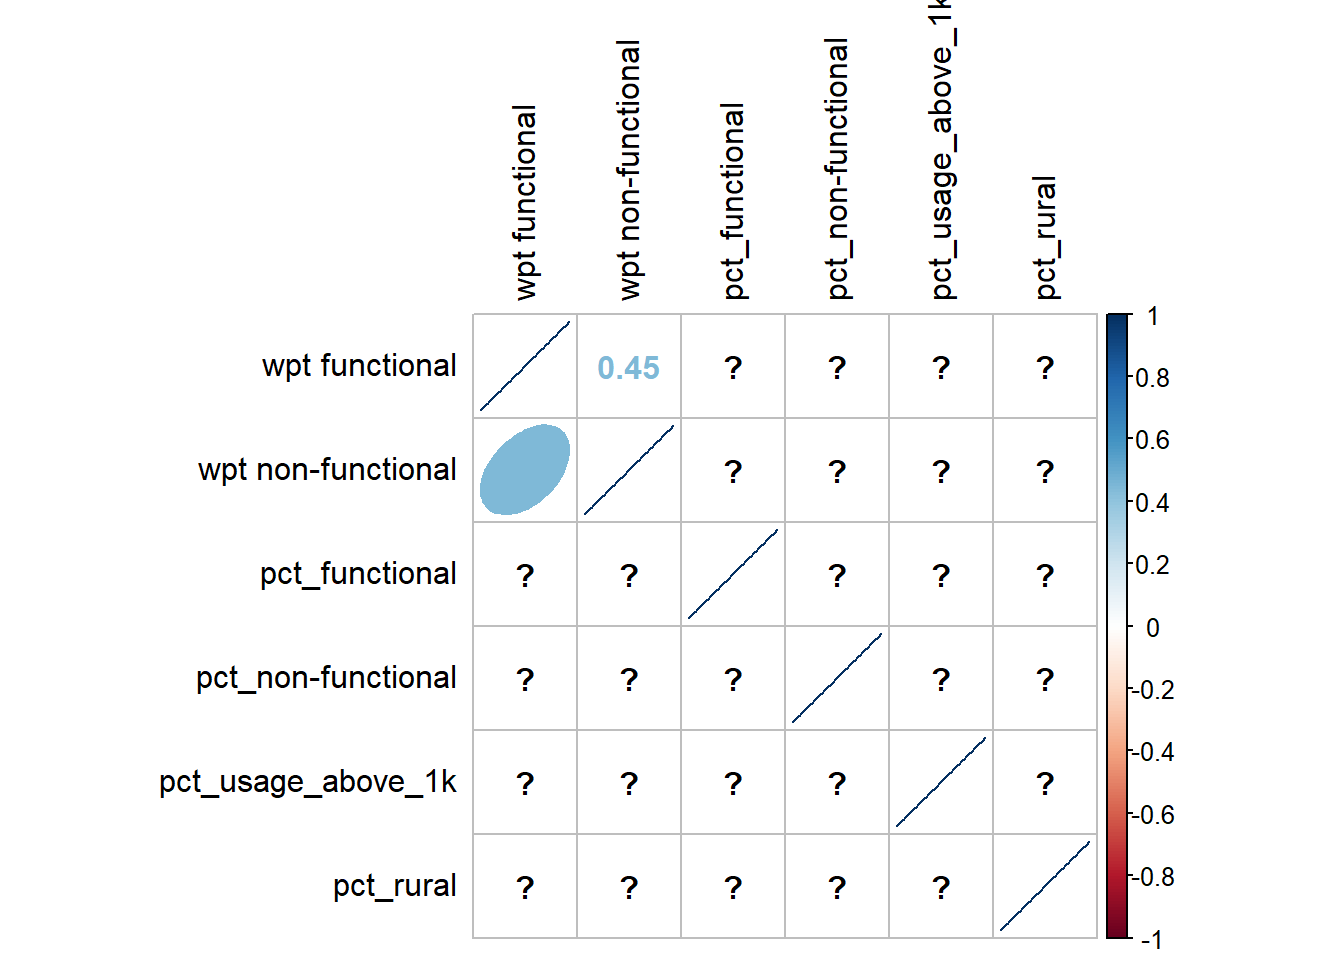
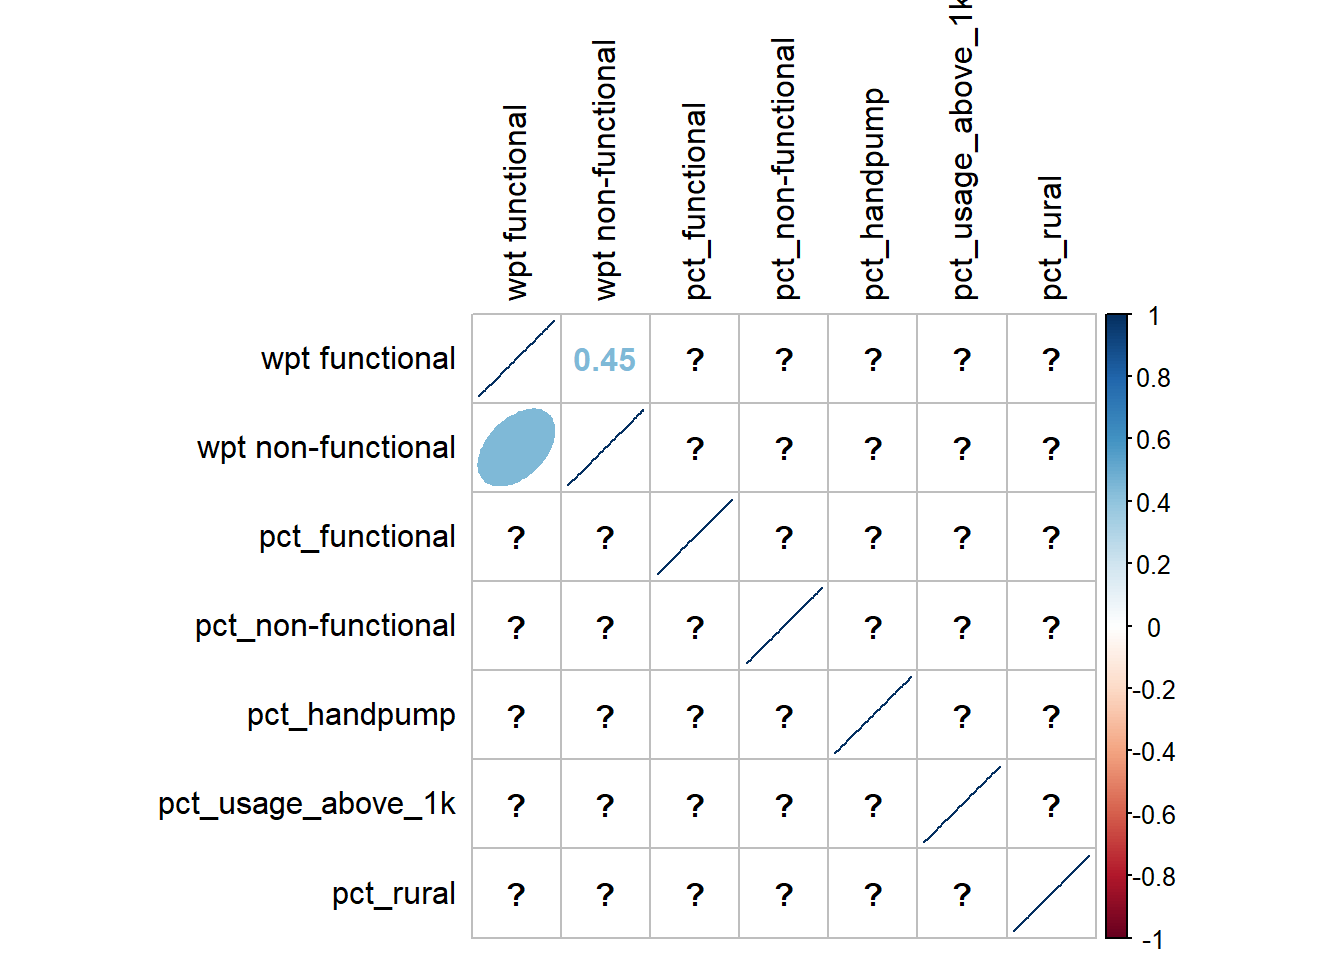
commit of take-home_Ex2

diff --git a/_site/Take-home_Ex2/Take-home_Ex2.html b/_site/Take-home_Ex2/Take-home_Ex2.html
@@ -661,10 +661,10 @@ code span.wa { color: #60a0b0; font-weight: bold; font-style: italic; } /* Warni
 <h2 class="anchored" data-anchor-id="correlation-analysis">Correlation Analysis</h2>
 <p>Before we perform cluster analysis, it is important for us to ensure that the cluster variables are not highly correlated.</p>
 <div class="cell">
-<div class="sourceCode cell-code" id="cb31"><pre class="sourceCode r code-with-copy"><code class="sourceCode r"><span id="cb31-1"><a href="#cb31-1" aria-hidden="true" tabindex="-1"></a>corr_data <span class="ot">&lt;-</span> nigeria_wp[,<span class="fu">c</span>(<span class="dv">6</span><span class="sc">:</span><span class="dv">7</span>, <span class="dv">14</span><span class="sc">:</span><span class="dv">15</span>, <span class="dv">19</span><span class="sc">:</span><span class="dv">20</span>)] <span class="sc">%&gt;%</span> <span class="fu">st_set_geometry</span>(<span class="cn">NULL</span>)</span></code><button title="Copy to Clipboard" class="code-copy-button"><i class="bi"></i></button></pre></div>
+<div class="sourceCode cell-code" id="cb31"><pre class="sourceCode r code-with-copy"><code class="sourceCode r"><span id="cb31-1"><a href="#cb31-1" aria-hidden="true" tabindex="-1"></a>corr_data <span class="ot">&lt;-</span> nigeria_wp[,<span class="fu">c</span>(<span class="dv">6</span><span class="sc">:</span><span class="dv">7</span>, <span class="dv">14</span><span class="sc">:</span><span class="dv">16</span>, <span class="dv">19</span><span class="sc">:</span><span class="dv">20</span>)] <span class="sc">%&gt;%</span> <span class="fu">st_set_geometry</span>(<span class="cn">NULL</span>)</span></code><button title="Copy to Clipboard" class="code-copy-button"><i class="bi"></i></button></pre></div>
 </div>
 <div class="cell">
-<div class="sourceCode cell-code" id="cb32"><pre class="sourceCode r code-with-copy"><code class="sourceCode r"><span id="cb32-1"><a href="#cb32-1" aria-hidden="true" tabindex="-1"></a>cluster_vars.cor <span class="ot">=</span> <span class="fu">cor</span>(corr_data)</span>
+<div class="sourceCode cell-code" id="cb32"><pre class="sourceCode r code-with-copy"><code class="sourceCode r"><span id="cb32-1"><a href="#cb32-1" aria-hidden="true" tabindex="-1"></a>cluster_vars.cor <span class="ot">=</span> <span class="fu">cor</span>(corr_data[,<span class="dv">1</span><span class="sc">:</span><span class="dv">7</span>])</span>
 <span id="cb32-2"><a href="#cb32-2" aria-hidden="true" tabindex="-1"></a><span class="fu">corrplot.mixed</span>(cluster_vars.cor,</span>
 <span id="cb32-3"><a href="#cb32-3" aria-hidden="true" tabindex="-1"></a>         <span class="at">lower =</span> <span class="st">"ellipse"</span>, </span>
 <span id="cb32-4"><a href="#cb32-4" aria-hidden="true" tabindex="-1"></a>               <span class="at">upper =</span> <span class="st">"number"</span>,</span>
@@ -691,19 +691,17 @@ code span.wa { color: #60a0b0; font-weight: bold; font-style: italic; } /* Warni
 <div class="sourceCode cell-code" id="cb34"><pre class="sourceCode r code-with-copy"><code class="sourceCode r"><span id="cb34-1"><a href="#cb34-1" aria-hidden="true" tabindex="-1"></a>NaN_list <span class="ot">&lt;-</span> <span class="fu">is.nan</span>(nigeria_wp<span class="sc">$</span>pct_functional)</span>
 <span id="cb34-2"><a href="#cb34-2" aria-hidden="true" tabindex="-1"></a>nigeria_wp<span class="sc">$</span>pct_functional[NaN_list] <span class="ot">&lt;-</span> <span class="dv">0</span></span>
 <span id="cb34-3"><a href="#cb34-3" aria-hidden="true" tabindex="-1"></a></span>
-<span id="cb34-4"><a href="#cb34-4" aria-hidden="true" tabindex="-1"></a></span>
-<span id="cb34-5"><a href="#cb34-5" aria-hidden="true" tabindex="-1"></a></span>
-<span id="cb34-6"><a href="#cb34-6" aria-hidden="true" tabindex="-1"></a>NaN_list <span class="ot">&lt;-</span> <span class="fu">is.nan</span>(nigeria_wp<span class="sc">$</span>pct_handpump)</span>
-<span id="cb34-7"><a href="#cb34-7" aria-hidden="true" tabindex="-1"></a>nigeria_wp<span class="sc">$</span>pct_handpump[NaN_list] <span class="ot">&lt;-</span> <span class="dv">0</span></span>
-<span id="cb34-8"><a href="#cb34-8" aria-hidden="true" tabindex="-1"></a></span>
-<span id="cb34-9"><a href="#cb34-9" aria-hidden="true" tabindex="-1"></a>NaN_list <span class="ot">&lt;-</span> <span class="fu">is.nan</span>(nigeria_wp<span class="sc">$</span>pct_handpump)</span>
-<span id="cb34-10"><a href="#cb34-10" aria-hidden="true" tabindex="-1"></a>nigeria_wp<span class="sc">$</span>pct_handpump[NaN_list] <span class="ot">&lt;-</span> <span class="dv">0</span></span>
-<span id="cb34-11"><a href="#cb34-11" aria-hidden="true" tabindex="-1"></a></span>
-<span id="cb34-12"><a href="#cb34-12" aria-hidden="true" tabindex="-1"></a>NaN_list <span class="ot">&lt;-</span> <span class="fu">is.nan</span>(nigeria_wp<span class="sc">$</span>pct_usage_below_1k)</span>
-<span id="cb34-13"><a href="#cb34-13" aria-hidden="true" tabindex="-1"></a>nigeria_wp<span class="sc">$</span>pct_usage_below_1k[NaN_list] <span class="ot">&lt;-</span> <span class="dv">0</span></span>
-<span id="cb34-14"><a href="#cb34-14" aria-hidden="true" tabindex="-1"></a></span>
-<span id="cb34-15"><a href="#cb34-15" aria-hidden="true" tabindex="-1"></a>NaN_list <span class="ot">&lt;-</span> <span class="fu">is.nan</span>(nigeria_wp<span class="sc">$</span>pct_rural)</span>
-<span id="cb34-16"><a href="#cb34-16" aria-hidden="true" tabindex="-1"></a>nigeria_wp<span class="sc">$</span>pct_rural[NaN_list] <span class="ot">&lt;-</span> <span class="dv">0</span></span></code><button title="Copy to Clipboard" class="code-copy-button"><i class="bi"></i></button></pre></div>
+<span id="cb34-4"><a href="#cb34-4" aria-hidden="true" tabindex="-1"></a>NaN_list <span class="ot">&lt;-</span> <span class="fu">is.nan</span>(nigeria_wp<span class="sc">$</span><span class="st">`</span><span class="at">pct_non-functional</span><span class="st">`</span>)</span>
+<span id="cb34-5"><a href="#cb34-5" aria-hidden="true" tabindex="-1"></a>nigeria_wp<span class="sc">$</span><span class="st">`</span><span class="at">pct_non-functional</span><span class="st">`</span>[NaN_list] <span class="ot">&lt;-</span> <span class="dv">0</span></span>
+<span id="cb34-6"><a href="#cb34-6" aria-hidden="true" tabindex="-1"></a></span>
+<span id="cb34-7"><a href="#cb34-7" aria-hidden="true" tabindex="-1"></a>NaN_list <span class="ot">&lt;-</span> <span class="fu">is.nan</span>(nigeria_wp<span class="sc">$</span>pct_handpump)</span>
+<span id="cb34-8"><a href="#cb34-8" aria-hidden="true" tabindex="-1"></a>nigeria_wp<span class="sc">$</span>pct_handpump[NaN_list] <span class="ot">&lt;-</span> <span class="dv">0</span></span>
+<span id="cb34-9"><a href="#cb34-9" aria-hidden="true" tabindex="-1"></a></span>
+<span id="cb34-10"><a href="#cb34-10" aria-hidden="true" tabindex="-1"></a>NaN_list <span class="ot">&lt;-</span> <span class="fu">is.nan</span>(nigeria_wp<span class="sc">$</span>pct_usage_above_1k)</span>
+<span id="cb34-11"><a href="#cb34-11" aria-hidden="true" tabindex="-1"></a>nigeria_wp<span class="sc">$</span>pct_usage_above_1k[NaN_list] <span class="ot">&lt;-</span> <span class="dv">0</span></span>
+<span id="cb34-12"><a href="#cb34-12" aria-hidden="true" tabindex="-1"></a></span>
+<span id="cb34-13"><a href="#cb34-13" aria-hidden="true" tabindex="-1"></a>NaN_list <span class="ot">&lt;-</span> <span class="fu">is.nan</span>(nigeria_wp<span class="sc">$</span>pct_rural)</span>
+<span id="cb34-14"><a href="#cb34-14" aria-hidden="true" tabindex="-1"></a>nigeria_wp<span class="sc">$</span>pct_rural[NaN_list] <span class="ot">&lt;-</span> <span class="dv">0</span></span></code><button title="Copy to Clipboard" class="code-copy-button"><i class="bi"></i></button></pre></div>
 </div>
 <p>We run the code as follow:</p>
 <div class="cell">
@@ -718,11 +716,11 @@ code span.wa { color: #60a0b0; font-weight: bold; font-style: italic; } /* Warni
 <pre><code>    ADM2_EN wpt functional wpt non-functional pct_functional pct_non-functional
 1 Aba North              7                  9      0.4117647          0.5294118
 2 Aba South             29                 35      0.4084507          0.4929577
-3    Abadam              0                  0            NaN                NaN
+3    Abadam              0                  0      0.0000000          0.0000000
   pct_handpump pct_usage_below_1k  pct_rural
 1   0.11764706          0.1764706 0.00000000
 2   0.09859155          0.1267606 0.05633803
-3          NaN                NaN        NaN</code></pre>
+3   0.00000000                NaN 0.00000000</code></pre>
 </div>
 </div>
 <p>Next, we need to change the row names using row.name() function from R base:</p>
@@ -733,11 +731,11 @@ code span.wa { color: #60a0b0; font-weight: bold; font-style: italic; } /* Warni
 <pre><code>            ADM2_EN wpt functional wpt non-functional pct_functional
 Aba North Aba North              7                  9      0.4117647
 Aba South Aba South             29                 35      0.4084507
-Abadam       Abadam              0                  0            NaN
+Abadam       Abadam              0                  0      0.0000000
           pct_non-functional pct_handpump pct_usage_below_1k  pct_rural
 Aba North          0.5294118   0.11764706          0.1764706 0.00000000
 Aba South          0.4929577   0.09859155          0.1267606 0.05633803
-Abadam                   NaN          NaN                NaN        NaN</code></pre>
+Abadam             0.0000000   0.00000000                NaN 0.00000000</code></pre>
 </div>
 </div>
 <p>Now, we do not need the column ADM2_EN &amp; pct_usage_below_1k anymore, so we exclude it:</p>
@@ -748,11 +746,11 @@ Abadam                   NaN          NaN                NaN        NaN</code></
 <pre><code>          wpt functional wpt non-functional pct_functional pct_non-functional
 Aba North              7                  9      0.4117647          0.5294118
 Aba South             29                 35      0.4084507          0.4929577
-Abadam                 0                  0            NaN                NaN
+Abadam                 0                  0      0.0000000          0.0000000
           pct_handpump  pct_rural
 Aba North   0.11764706 0.00000000
 Aba South   0.09859155 0.05633803
-Abadam             NaN        NaN</code></pre>
+Abadam      0.00000000 0.00000000</code></pre>
 </div>
 </div>
 </section>
@@ -767,20 +765,18 @@ Abadam             NaN        NaN</code></pre>
 <div class="cell-output cell-output-stdout">
 <pre><code> wpt functional    wpt non-functional pct_functional   pct_non-functional
  Min.   :0.00000   Min.   :0.00000    Min.   :0.0000   Min.   :0.0000    
- 1st Qu.:0.02261   1st Qu.:0.04406    1st Qu.:0.3333   1st Qu.:0.2211    
- Median :0.06051   Median :0.12230    Median :0.4792   Median :0.3559    
- Mean   :0.08957   Mean   :0.14962    Mean   :0.5070   Mean   :0.3654    
- 3rd Qu.:0.11669   3rd Qu.:0.21853    3rd Qu.:0.6749   3rd Qu.:0.5082    
+ 1st Qu.:0.02261   1st Qu.:0.04406    1st Qu.:0.3261   1st Qu.:0.2105    
+ Median :0.06051   Median :0.12230    Median :0.4741   Median :0.3505    
+ Mean   :0.08957   Mean   :0.14962    Mean   :0.4984   Mean   :0.3592    
+ 3rd Qu.:0.11669   3rd Qu.:0.21853    3rd Qu.:0.6699   3rd Qu.:0.5076    
  Max.   :1.00000   Max.   :1.00000    Max.   :1.0000   Max.   :1.0000    
-                                      NA's   :13       NA's   :13        
   pct_handpump      pct_rural     
  Min.   :0.0000   Min.   :0.0000  
- 1st Qu.:0.1860   1st Qu.:0.5922  
- Median :0.5255   Median :0.8717  
- Mean   :0.4956   Mean   :0.7395  
- 3rd Qu.:0.7857   3rd Qu.:1.0000  
- Max.   :1.0000   Max.   :1.0000  
- NA's   :13       NA's   :13      </code></pre>
+ 1st Qu.:0.1670   1st Qu.:0.5727  
+ Median :0.5099   Median :0.8645  
+ Mean   :0.4873   Mean   :0.7271  
+ 3rd Qu.:0.7778   3rd Qu.:1.0000  
+ Max.   :1.0000   Max.   :1.0000  </code></pre>
 </div>
 </div>
 </section>
@@ -845,7 +841,7 @@ Using the dist() of the base R package, we will compute the proximity matrix:</p
 <div class="sourceCode cell-code" id="cb46"><pre class="sourceCode r code-with-copy"><code class="sourceCode r"><span id="cb46-1"><a href="#cb46-1" aria-hidden="true" tabindex="-1"></a>agnes_result <span class="ot">&lt;-</span> <span class="fu">agnes</span>(std_cluster_vars, <span class="at">method =</span> <span class="st">"ward"</span>)</span>
 <span id="cb46-2"><a href="#cb46-2" aria-hidden="true" tabindex="-1"></a>agnes_result<span class="sc">$</span>ac</span></code><button title="Copy to Clipboard" class="code-copy-button"><i class="bi"></i></button></pre></div>
 <div class="cell-output cell-output-stdout">
-<pre><code>[1] 0.9897195</code></pre>
+<pre><code>[1] 0.990276</code></pre>
 </div>
 </div>
 <p>The results are stored in the output data structure under the name agnes_result$ac. The higher the magnitude of this value, the better the clustering structure. In this case, “ward” gets a score of 0.9899133 which shows strong clustering structure.</p>
@@ -870,7 +866,7 @@ Using the dist() of the base R package, we will compute the proximity matrix:</p
 <div class="sourceCode cell-code" id="cb51"><pre class="sourceCode r code-with-copy"><code class="sourceCode r"><span id="cb51-1"><a href="#cb51-1" aria-hidden="true" tabindex="-1"></a><span class="fu">map_dbl</span>(algorithms, test)</span></code><button title="Copy to Clipboard" class="code-copy-button"><i class="bi"></i></button></pre></div>
 <div class="cell-output cell-output-stdout">
 <pre><code>  average    single  complete      ward 
-0.9116794 0.7921475 0.9445165 0.9897195 </code></pre>
+0.9114067 0.7819154 0.9440637 0.9902760 </code></pre>
 </div>
 </div>
 <p>Of the clustering algorithms, we can see that “ward” methods gives us the best clustering structure. Hence we will use this for the rest of the analysis.</p>
@@ -1074,7 +1070,7 @@ Link number distribution:
 Weights style: B 
 Weights constants summary:
     n     nn       S0       S1       S2
-B 773 597529 3025.661 4998.797 56439.81</code></pre>
+B 773 597529 3199.663 5587.281 64117.47</code></pre>
 </div>
 </div>
 <h2 id="construct-minimum-spanning-tree" class="anchored">Construct Minimum Spanning Tree</h2>
